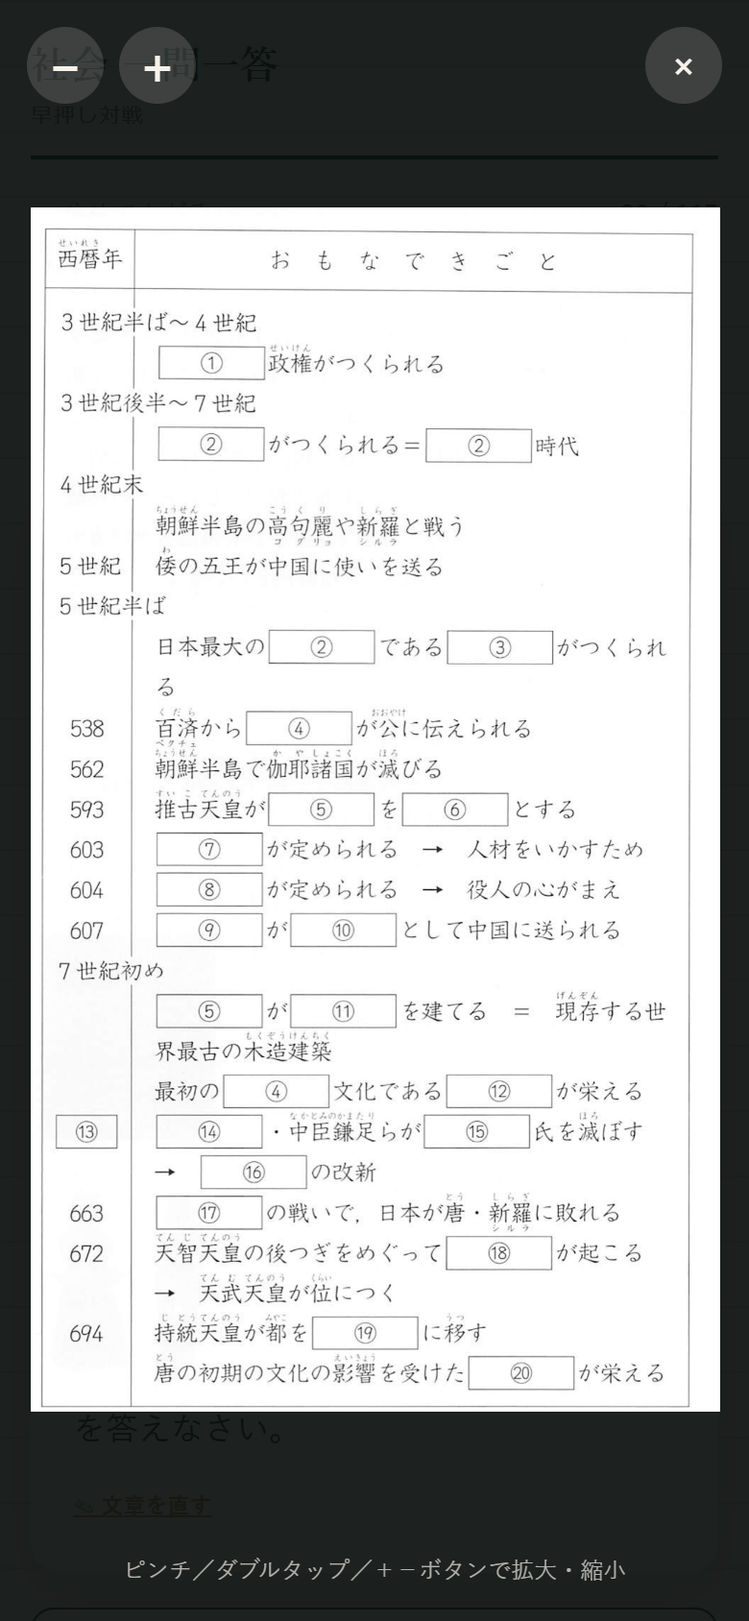
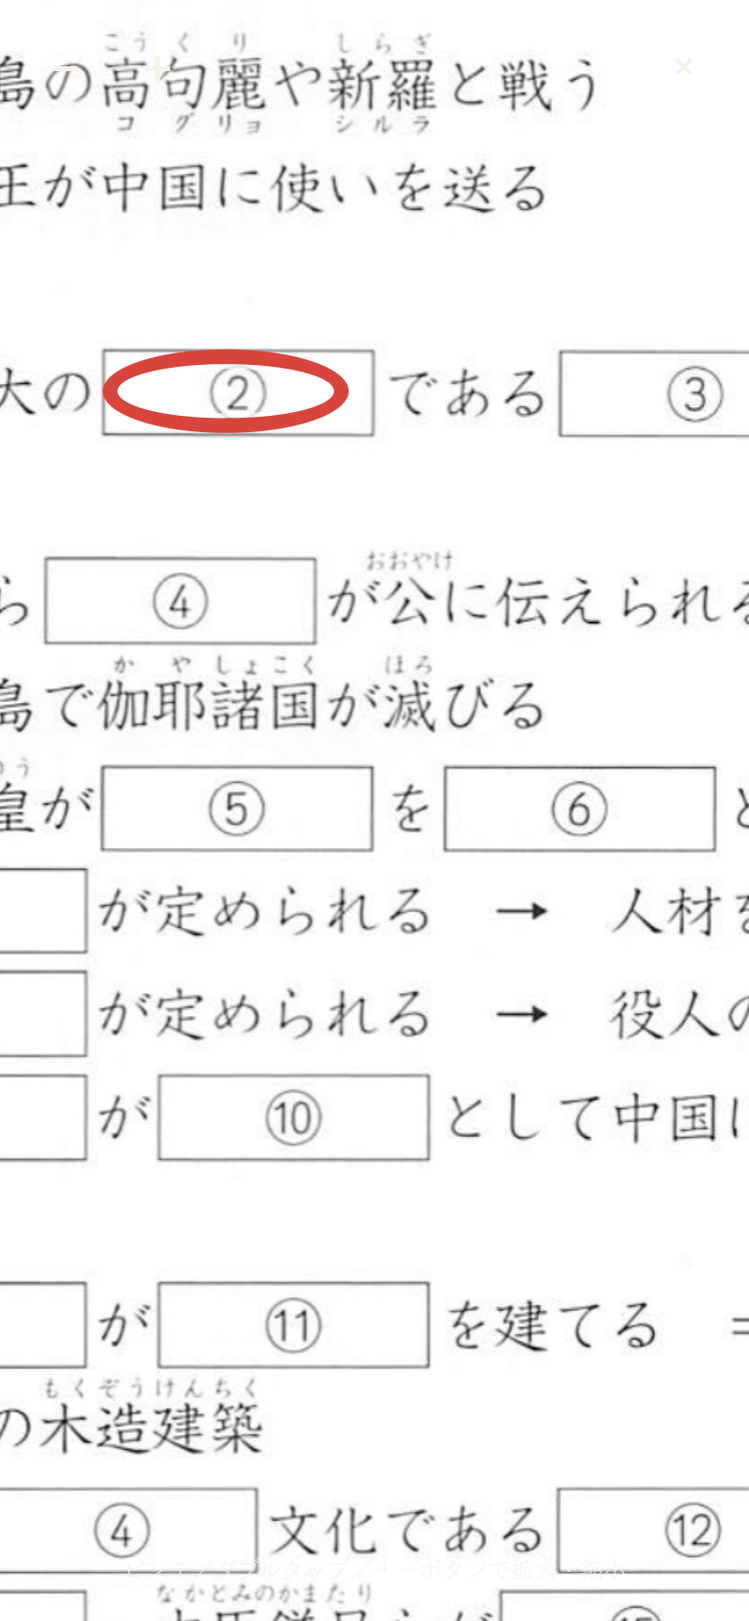
年表の空らんを赤丸で示す機能を入れた（画像1枚＋座標で、画像は増やさない）
ユーザーの「年表を出して、地図みたいに赤丸で囲んで『これなんだ？』みたいに
できませんか」への対応。第2回の年表20問（g2r66〜g2r85）に赤丸が出る。

■ 作り
画像は1ピクセルも変えず、上に層（.mark-layer）を重ねて丸を描く。
★**赤丸入りの画像を20枚作る方式は採らない。**1枚＋座標で足りるうえ、
画像を切り直したときに20枚すべてを作り直すことになるため。

座標は claude-34 が配信用画像（1216×2126）の px で測り、24個すべてを
赤枠で描いた画像を目視確認したもの。★**割合（0〜1）に直して持つ。**
px のままだと、端末で枠の大きさが変わったときに合わなくなる。
同じ番号が複数ある問（②が3か所・④と⑤が2か所）は全部囲む。
1つだけ囲むと「ほかの②は関係ない」と読めてしまう。

■ ★つまずいた1つめ: object-fit:contain で枠と絵の範囲がずれる
縦長の画像は枠（312×398）の中で左右に余白ができる。枠を基準に丸を置くと
ずれるので、**絵が実際に出ている範囲を計算してから**置いている。

■ ★つまずいた2つめ: 拡大すると丸だけがずれた（実機で見つけた）
拡大側は画像そのものに transform をかけているので、層にも同じ変形をかけた。
**変形の文字列は完全に一致していたのに、丸の位置だけが合わなかった。**
原因は**変形の基準点（transform-origin）**だった。層を stage の左上に置いた
まま同じ transform をかけると、img は自分の左上を中心に、層は stage の左上を
中心に拡大するので、`scale(2.56)` の結果が食いちがう。
→ **層を img にぴったり重ね、基準点を CSS で `0 0` にそろえた。**

★これは「拡大していないときは transform が無いので、ずれが出ず気づけない」型。
通常表示だけ見て終われば、そのまま配信していた。**実機で拡大して目で見たから
見つかった**（B-12）。変形の文字列が一致していることは、位置が合っている
証拠にならなかった（E-2 と同じ構図）。

■ 確認（実機・スマホ幅390px）
- g2r67（②が3か所）を出題し、**3つの丸が3つの②の箱すべてに乗る**ことを目で見た。
  ①③④⑤…には丸が付いていない
- 押して拡大し、**2.56倍にしても丸が箱に乗ったまま**であることを目で見た
- 画像の読み込み前は naturalWidth が 0 で描けないので、decode() 後に描き直す
- 画面幅が変わったら描き直す（resize）
- JSエラー0件。smoke-test 12件・node だけの6件・verify_data、すべて成功

■ まだやっていないこと
- 問題文を「赤丸の空らんをふくむ語を答えなさい」に変えるのは次（赤丸が出た今なら書ける）
- 第1回・第3回の画像と問題文。claude-34 から画像・座標・露出チェックは届いている

diff --git a/index.html b/index.html
@@ -444,6 +444,7 @@
     margin-bottom:16px;
     text-align:center;
   }
+  .img-wrap{ position:relative; }   /* 赤丸の層を重ねる基準 */
   .img-wrap img{
     max-width:100%;
     max-height:220px;
@@ -459,6 +460,23 @@
     border-radius:8px;
     border:1px solid var(--paper-line);
     background:#fff;
+  }
+  /* ★年表などで「ここが空らん」と示す赤丸。
+     画像は1ピクセルも変えず、上に層を重ねて描く（画像を20枚作らない）。
+     座標は画像の幅・高さに対する割合で持つ。端末で枠の大きさが変わるため、
+     px で持つと合わなくなる。 */
+  .mark-layer{
+    position:absolute;
+    pointer-events:none;   /* 押したときは下の画像に通す（拡大が開くように） */
+    left:0; top:0;
+    transform-origin:0 0;  /* ★拡大画像と同じ基準点。ここがずれると丸がずれる */
+  }
+  .mark-layer .mark{
+    position:absolute;
+    box-sizing:border-box;
+    border:3px solid #d8453c;
+    border-radius:50%;
+    box-shadow:0 0 0 1px rgba(255,255,255,.7) inset;
   }
   /* ★縦長の画像だけ、枠を高くする（setImgWithSize が .tall を付ける）。
      220pxのままだと年表（1216×2126）が幅126pxにしかならず、
@@ -1664,6 +1682,7 @@
     <div class="card">
       <div class="img-wrap" id="solo-img-wrap" style="display:none;">
         <img id="solo-img" src="" alt="資料" />
+        <div class="mark-layer" id="solo-marks"></div>
       </div>
       <div id="solo-view">
         <div class="q-text" id="solo-q"></div>
@@ -1768,6 +1787,7 @@
     <div class="card">
       <div class="img-wrap" id="battle-img-wrap" style="display:none;">
         <img id="battle-img" src="" alt="資料" />
+        <div class="mark-layer" id="battle-marks"></div>
       </div>
       <div id="battle-view">
         <div class="q-text" id="battle-q"></div>
@@ -1838,6 +1858,7 @@
   </div>
   <div class="lightbox-stage" id="lightbox-stage">
     <img id="lightbox-img" src="" alt="資料（拡大）" />
+    <div class="mark-layer" id="lightbox-marks"></div>
   </div>
   <div class="lightbox-hint">ピンチ／ダブルタップ／＋－ボタンで拡大・縮小</div>
 </div>
@@ -1904,6 +1925,72 @@ const APP_ID = 'kosukequiz-battle-hayaoshi-8f3d2a';
 const IMG_SIZES = {"img_01.jpg":[581,620],"img_02.jpg":[627,579],"img_03.jpg":[714,417],"img_04.jpg":[514,483],"img_05.jpg":[644,532],"img_06.jpg":[463,429],"img_07.jpg":[1156,446],"img_08.jpg":[573,586],"img_09.jpg":[506,198],"img_10.jpg":[497,146],"img_11.jpg":[503,499],"img_12.jpg":[518,578],"img_13.jpg":[746,621],"img_14.jpg":[713,567],"img_15.jpg":[658,628],"img_16.png":[642,589],"img_17.png":[535,597],"img_18.png":[510,295],"img_19.png":[1399,307],"img_20.png":[448,714],"img_21.png":[648,595],"img_22.png":[244,234],"img_23.jpg":[346,355],"img_24.jpg":[209,263],"img_25.jpg":[228,244],"kai1_01.jpg":[374,356],"kai1_02.jpg":[348,339],"kai1_03.jpg":[492,339],"kai1_04.jpg":[352,340],"kai1_05.jpg":[357,340],"kai1_06.jpg":[261,340],"kai1_07.jpg":[461,340],"kai1_08.jpg":[444,340],"kai1_09.jpg":[357,340],"kai1_10.jpg":[601,340],"kai1_11.jpg":[635,340],"kai1_12.jpg":[2019,1084],"kai1_13.jpg":[516,490],"kai1_14.jpg":[560,254],"kai1_15.jpg":[595,324],"kai1_17.jpg":[2028,783],"kai1_18.jpg":[2019,1084],"kai1_20.jpg":[2019,1084],"kai1_21.jpg":[2019,1084],"kai1_22.jpg":[595,569],"kai1_23.jpg":[595,569],"kai1_24.jpg":[2019,1084],"kai1_25.jpg":[595,569],"kai1_26.jpg":[595,569],"kai1_27.jpg":[700,508],"kai1_28.jpg":[951,720],"kai1_29.jpg":[2240,1180],"kai2_01.jpg":[697,350],"kai2_02.jpg":[769,524],"kai2_03.jpg":[529,297],"kai2_04.jpg":[529,313],"kai2_05.jpg":[1216,2126],"kai3_01.jpg":[530,460],"kai3_02.jpg":[680,460],"kai3_03.jpg":[700,460],"kai3_04.jpg":[675,330],"kai3_05.jpg":[2408,1775],"kai3_06.jpg":[1988,1222],"kaki_r1_01.jpg":[761,180],"kaki_r1_02.jpg":[761,206],"kaki_r1_03.jpg":[796,180],"kaki_r1_04.jpg":[761,179],"kaki_r1_05.jpg":[796,206],"kaki_r1_06.jpg":[830,214],"kaki_r1_07.jpg":[890,624],"kaki_r1_08.jpg":[430,380],"kaki_r1_map01.jpg":[1170,1210],"kaki_r1_map02.jpg":[1170,1210],"kaki_r1_map03.jpg":[1170,1210],"kaki_r1_map04.jpg":[1170,1210],"kaki_r1_map05.jpg":[1170,1210],"kaki_r1_map06.jpg":[1170,1210],"kaki_r1_map07.jpg":[1170,1210],"kaki_r1_map08.jpg":[1170,1210],"kaki_r1_map09.jpg":[1170,1210],"kaki_r1_map10.jpg":[1170,1210],"kaki_r1_map11.jpg":[1170,1210],"kaki_r1_map12.jpg":[1170,1210],"kaki_r1_map13.jpg":[1170,1210],"kaki_r1_map14.jpg":[1170,1210],"kaki_r1_map15.jpg":[1170,1210],"kaki_r2_graph01.jpg":[1215,1340],"kaki_r2_graph02.jpg":[1295,850],"kaki_r2_graph03.jpg":[1265,680],"kaki_r2_graph04.jpg":[1225,320],"kaki_r2_graph06.jpg":[1045,560],"kaki_r2_graph07.jpg":[700,870],"kaki_r2_map01.jpg":[1140,1090],"kaki_r2_map05.jpg":[1035,900],"kaki_r2_map07.jpg":[2315,1650],"kaki_r2_map08.jpg":[2315,1650],"kaki_r2_map09.jpg":[2315,1650],"kaki_r2_map10.jpg":[2315,1650],"kaki_r2_map11.jpg":[2315,1650],"kaki_r2_map12.jpg":[2315,1650],"kaki_r2_map13.jpg":[2315,1650],"kaki_r2_map14.jpg":[2315,1650],"kaki_r2_map15.jpg":[2315,1650],"kaki_r2_map16.jpg":[2315,1650],"kaki_r2_map17.jpg":[2315,1650],"kaki_r2_map18.jpg":[2315,1650],"kaki_r2_map19.jpg":[2315,1650],"kaki_r3_graph01.jpg":[1015,580],"kaki_r3_house01.jpg":[505,355],"kaki_r3_map01.jpg":[2415,3414],"kaki_r3_map02.jpg":[2415,3414],"kaki_r3_map03.jpg":[2415,3414],"kaki_r3_map04.jpg":[2415,3414],"kaki_r3_map05.jpg":[2415,3414],"kaki_r3_map06.jpg":[2415,3414],"kaki_r3_map07.jpg":[2415,3414],"kaki_r3_map08.jpg":[2415,3414],"kaki_r3_map09.jpg":[2415,3414],"kaki_r3_map10.jpg":[2415,3414],"kaki_r3_map11.jpg":[2415,3414],"kaki_r3_map12.jpg":[2415,3414],"kaki_r3_map13.jpg":[2415,3414],"kaki_r3_map14.jpg":[2415,3414],"kaki_r3_map15.jpg":[2415,3414],"kaki_r3_map16.jpg":[2415,3414],"kaki_r3_map17.jpg":[2415,3414],"kaki_r3_map18.jpg":[2415,3414],"kaki_r3_map19.jpg":[2415,3414],"kaki_r3_map20.jpg":[2415,3414],"kaki_r3_map21.jpg":[2415,3414],"kaki_r3_map22.jpg":[2415,3414],"kaki_r3_map23.jpg":[2415,3417],"kaki_r3_map24.jpg":[2415,3417],"kaki_r3_map25.jpg":[2415,3417],"kaki_r3_map26.jpg":[2415,3417],"kaki_r3_map27.jpg":[2415,3417],"kaki_r3_map28.jpg":[2415,3417],"kaki_r3_map29.jpg":[2415,3417],"kaki_r3_map30.jpg":[2415,3417],"kaki_r3_map31.jpg":[2415,3417],"kaki_r3_map32.jpg":[2415,3417],"kaki_r3_map33.jpg":[2415,3417],"kaki_r3_map34.jpg":[2415,3417],"kaki_r3_map35.jpg":[2415,3417],"kaki_r3_map36.jpg":[2415,3417],"kaki_r3_map37.jpg":[1265,910],"kaki_r3_shapes.jpg":[2315,480],"kaki_r4_graph01.jpg":[910,300],"kaki_r4_graph02.jpg":[760,200],"kaki_r4_map01.jpg":[1610,980],"kaki_r4_map02.jpg":[1610,1380],"kaki_r4_map03.jpg":[540,570],"kaki_r4_map04.jpg":[1480,1310],"kaki_r4_map05.jpg":[1480,1310],"kaki_r4_map06.jpg":[1480,1310],"kaki_r4_map07.jpg":[1480,1310],"kaki_r4_map08.jpg":[1480,1310],"kaki_r4_map09.jpg":[1480,1310],"kaki_r4_map10.jpg":[1480,1310],"kaki_r4_map11.jpg":[1480,1310],"kaki_r4_map12.jpg":[1480,1310],"kaki_r4_map13.jpg":[1480,1310],"kaki_r4_map14.jpg":[1480,1310],"kaki_r4_map15.jpg":[1480,1310],"kaki_r4_map16.jpg":[1480,1310],"kaki_r4_map17.jpg":[1480,1310],"kaki_r4_map18.jpg":[1480,1310],"kaki_r4_map19.jpg":[1480,1310],"kaki_r4_map20.jpg":[1480,1310],"kaki_r4_map21.jpg":[1480,1310],"kaki_r4_map22.jpg":[1480,1310],"kaki_r4_map23.jpg":[1480,1310],"kaki_r4_map24.jpg":[1480,1310],"kaki_r4_map25.jpg":[1630,1440],"kaki_r4_map26.jpg":[1630,1440],"kaki_r4_map27.jpg":[1630,1440],"kaki_r4_map28.jpg":[1630,1440],"kaki_r4_map29.jpg":[1630,1440],"kaki_r4_map30.jpg":[1630,1440],"kaki_r4_map31.jpg":[1630,1440],"kaki_r4_map32.jpg":[1630,1440],"kaki_r4_map33.jpg":[1630,1440],"kaki_r4_map34.jpg":[1630,1440],"kaki_r4_map35.jpg":[1630,1440],"kaki_r4_map36.jpg":[1630,1440],"kaki_r4_map37.jpg":[1630,1440],"kaki_r4_map38.jpg":[1630,1440],"kaki_r4_map39.jpg":[1630,1440],"kaki_r4_map40.jpg":[1630,1440],"kaki_r4_map41.jpg":[1630,1440],"kaki_r4_shapes01.jpg":[1470,520],"kaki_r4_shapes02.jpg":[1970,870],"kaki_r5_graph02.jpg":[610,665],"kaki_r5_graph05.jpg":[2105,343],"kaki_r5_map01.jpg":[1540,1550],"kaki_r5_map02.jpg":[1540,1550],"kaki_r5_map03.jpg":[1540,1550],"kaki_r5_map04.jpg":[1540,1550],"kaki_r5_map05.jpg":[1540,1550],"kaki_r5_map06.jpg":[1540,1550],"kaki_r5_map07.jpg":[1540,1550],"kaki_r5_map08.jpg":[1540,1550],"kaki_r5_map09.jpg":[1540,1550],"kaki_r5_map10.jpg":[1540,1550],"kaki_r5_map11.jpg":[1540,1550],"kaki_r5_map12.jpg":[1540,1550],"kaki_r5_map13.jpg":[1540,1550],"kaki_r5_map14.jpg":[1540,1550],"kaki_r5_map15.jpg":[1540,1550],"kaki_r5_map16.jpg":[1540,1550],"kaki_r5_map17.jpg":[1540,1550],"kaki_r5_map18.jpg":[1540,1550],"kaki_r5_map19.jpg":[1700,1740],"kaki_r5_map20.jpg":[1700,1740],"kaki_r5_map21.jpg":[1700,1740],"kaki_r5_map22.jpg":[1700,1740],"kaki_r5_map23.jpg":[1700,1740],"kaki_r5_map24.jpg":[1700,1740],"kaki_r5_map25.jpg":[1700,1740],"kaki_r5_map26.jpg":[1700,1740],"kaki_r5_map27.jpg":[1700,1740],"kaki_r5_map28.jpg":[1700,1740],"kaki_r5_map29.jpg":[1700,1740],"kaki_r5_map30.jpg":[1700,1740],"kaki_r5_map31.jpg":[1700,1740],"kaki_r5_map32.jpg":[540,600],"kaki_r5_shapes02.jpg":[800,635],"kaki_r5_shapes03.jpg":[460,480],"kaki_r5_table01.jpg":[1370,390],"kaki_r5_table02.jpg":[1170,580],"kaki_r6_graph01.jpg":[850,1005],"kaki_r6_map01.jpg":[1500,1320],"kaki_r6_map02.jpg":[1500,1320],"kaki_r6_map03.jpg":[1500,1320],"kaki_r6_map04.jpg":[1500,1320],"kaki_r6_map05.jpg":[1500,1320],"kaki_r6_map06.jpg":[1500,1320],"kaki_r6_map07.jpg":[1500,1320],"kaki_r6_map08.jpg":[1500,1320],"kaki_r6_map09.jpg":[1500,1320],"kaki_r6_map10.jpg":[1500,1320],"kaki_r6_map11.jpg":[1500,1320],"kaki_r6_map12.jpg":[1500,1320],"kaki_r6_map13.jpg":[1500,1320],"kaki_r6_map14.jpg":[1500,1320],"kaki_r6_map15.jpg":[1500,1320],"kaki_r6_map16.jpg":[1500,1320],"kaki_r6_map17.jpg":[1500,1320],"kaki_r6_map18.jpg":[1500,1320],"kaki_r6_map19.jpg":[1500,1320],"kaki_r6_map20.jpg":[1500,1320],"kaki_r6_map21.jpg":[1500,1320],"kaki_r6_map22.jpg":[1500,1320],"kaki_r6_map23.jpg":[1500,1320],"kaki_r6_map24.jpg":[1500,1320],"kaki_r6_map25.jpg":[1500,1320],"kaki_r6_map26.jpg":[1500,1320],"kaki_r6_map27.jpg":[1500,1320],"kaki_r6_map28.jpg":[1420,1480],"kaki_r6_map29.jpg":[1420,1480],"kaki_r6_map30.jpg":[1420,1480],"kaki_r6_map31.jpg":[1420,1480],"kaki_r6_map32.jpg":[1420,1480],"kaki_r6_map33.jpg":[1420,1480],"kaki_r6_map34.jpg":[1420,1480],"kaki_r6_map35.jpg":[1420,1480],"kaki_r6_map36.jpg":[1420,1480],"kaki_r6_map37.jpg":[1420,1480],"kaki_r6_map38.jpg":[1420,1480],"kaki_r6_map39.jpg":[1420,1480],"kaki_r6_map40.jpg":[1420,1480],"kaki_r6_map41.jpg":[1420,1480],"kaki_r6_map42.jpg":[1420,1480],"kaki_r6_map43.jpg":[1420,1480],"kaki_r6_map44.jpg":[1420,1480],"kaki_r6_map45.jpg":[1420,1480],"kaki_r6_map46.jpg":[1420,1480],"kaki_r6_map47.jpg":[1420,1480],"kaki_r6_map48.jpg":[750,845],"kaki_r6_map49.jpg":[600,700],"kaki_r6_table01.jpg":[2010,445],"kaki_r7_graph02.jpg":[720,340],"kaki_r7_map01.jpg":[1840,1620],"kaki_r7_map02.jpg":[1840,1620],"kaki_r7_map03.jpg":[1840,1620],"kaki_r7_map04.jpg":[1840,1620],"kaki_r7_map05.jpg":[1840,1620],"kaki_r7_map06.jpg":[1840,1620],"kaki_r7_map07.jpg":[1840,1620],"kaki_r7_map08.jpg":[1840,1620],"kaki_r7_map09.jpg":[1840,1620],"kaki_r7_map10.jpg":[1840,1620],"kaki_r7_map11.jpg":[1840,1620],"kaki_r7_map12.jpg":[1840,1620],"kaki_r7_map13.jpg":[1840,1620],"kaki_r7_map14.jpg":[1840,1620],"kaki_r7_map15.jpg":[1840,1620],"kaki_r7_map16.jpg":[1840,1620],"kaki_r7_map17.jpg":[1840,1620],"kaki_r7_map18.jpg":[1500,1620],"kaki_r7_map19.jpg":[1500,1620],"kaki_r7_map20.jpg":[1500,1620],"kaki_r7_map21.jpg":[1500,1620],"kaki_r7_map22.jpg":[1500,1620],"kaki_r7_map23.jpg":[1500,1620],"kaki_r7_map24.jpg":[1500,1620],"kaki_r7_map25.jpg":[1500,1620],"kaki_r7_map26.jpg":[1500,1620],"kaki_r7_map27.jpg":[1500,1620],"kaki_r7_map28.jpg":[1500,1620],"kaki_r7_map29.jpg":[1500,1620],"kaki_r7_map30.jpg":[1500,1620],"kaki_r7_map31.jpg":[1500,1620],"kaki_r7_map32.jpg":[1500,1620],"kaki_r7_map33.jpg":[1500,1620],"kaki_r7_map34.jpg":[1500,1620],"kaki_r7_map35.jpg":[1500,1620],"kaki_r7_map36.jpg":[680,550],"kaki_r7_table01.jpg":[1100,420],"kaki_r7_table02.jpg":[1730,890],"kaki_r8_map01.jpg":[1220,1720],"kaki_r8_map02.jpg":[1220,1720],"kaki_r8_map03.jpg":[1220,1720],"kaki_r8_map04.jpg":[1220,1720],"kaki_r8_map05.jpg":[1220,1720],"kaki_r8_map06.jpg":[1220,1720],"kaki_r8_map07.jpg":[1220,1720],"kaki_r8_map08.jpg":[1220,1720],"kaki_r8_map09.jpg":[1220,1720],"kaki_r8_map10.jpg":[1220,1720],"kaki_r8_map11.jpg":[1220,1720],"kaki_r8_map12.jpg":[1220,1720],"kaki_r8_map13.jpg":[1220,1720],"kaki_r8_map14.jpg":[1220,1720],"kaki_r8_map15.jpg":[1220,1720],"kaki_r8_map16.jpg":[1220,1720],"kaki_r8_map17.jpg":[1220,1720],"kaki_r8_map18.jpg":[1220,1720],"kaki_r8_map19.jpg":[1220,1720],"kaki_r8_map20.jpg":[1220,1720],"kaki_r8_map21.jpg":[1220,1720],"kaki_r8_map22.jpg":[1220,1720],"kaki_r8_map23.jpg":[1220,1720],"kaki_r8_map24.jpg":[1220,1720],"kaki_r8_map25.jpg":[1220,1720],"kaki_r8_map26.jpg":[1220,1720],"kaki_r8_map27.jpg":[1220,1720],"kaki_r8_map28.jpg":[1220,1720],"kaki_r8_map29.jpg":[1220,1720],"kaki_r8_map30.jpg":[1220,1720],"kaki_r8_map31.jpg":[1220,1720],"kaki_r8_map32.jpg":[1220,1720],"kaki_r8_map33.jpg":[1220,1720],"kaki_r8_map34.jpg":[1220,1720],"kaki_r8_map35.jpg":[1870,1560],"kaki_r8_map36.jpg":[1870,1560],"kaki_r8_map37.jpg":[1870,1560],"kaki_r8_map38.jpg":[1870,1560],"kaki_r8_map39.jpg":[1870,1560],"kaki_r8_map40.jpg":[1870,1560],"kaki_r8_map41.jpg":[1870,1560],"kaki_r8_map42.jpg":[1870,1560],"kaki_r8_map43.jpg":[1870,1560],"kaki_r8_map44.jpg":[1870,1560],"kaki_r8_map45.jpg":[1870,1560],"kaki_r8_map46.jpg":[1870,1560],"kaki_r8_map47.jpg":[1870,1560],"kaki_r8_map48.jpg":[1870,1560],"kaki_r8_map49.jpg":[1870,1560],"kaki_r8_map50.jpg":[1870,1560],"kaki_r8_map51.jpg":[1870,1560],"kaki_r8_map52.jpg":[1870,1560],"kaki_r8_map53.jpg":[1870,1560],"kaki_r8_map54.jpg":[1870,1560],"kaki_r8_map55.jpg":[1870,1560],"kaki_r8_map56.jpg":[1870,1560],"kaki_r8_map57.jpg":[1870,1560],"kaki_r8_map58.jpg":[640,630],"r1_01.jpg":[2188,900],"r1_02.jpg":[1130,1070],"r1_03.jpg":[1660,400],"r1_04.jpg":[476,377],"r1_05.jpg":[1299,625],"r1_06.jpg":[950,360],"r2_01.jpg":[1400,673],"r2_02.jpg":[1400,365],"r2_03.jpg":[1400,346],"r2_04.jpg":[1400,997],"r2_05.jpg":[1400,692],"r2_06.jpg":[1392,600],"r2_07.jpg":[1392,623],"r2_08.jpg":[1392,701],"r2_09.jpg":[1419,823],"r2_10.jpg":[1419,823],"r2_11.jpg":[1419,823],"r2_12.jpg":[1419,956],"r2_13.jpg":[1419,956],"r2_14.jpg":[1419,956],"r2_15.jpg":[1400,946],"r2_16.jpg":[1400,946],"r2_17.jpg":[1400,946],"r2_18.jpg":[1400,883],"r2_19.jpg":[1400,883],"r2_20.jpg":[1427,1895],"r2_21.jpg":[1427,1895],"r2_22.jpg":[1427,1895],"r2_23.jpg":[1427,1895],"r2_24.jpg":[1427,1895],"r2_25.jpg":[1427,1895],"r2_26.jpg":[1410,1983],"r2_27.jpg":[1410,1983],"r2_28.jpg":[1410,1983],"r2_29.jpg":[1410,1983],"r2_30.jpg":[1419,946],"r2_31.jpg":[1419,946],"r2_32.jpg":[1419,946],"r2_33.jpg":[1419,946],"r2_34.jpg":[1419,538],"r2_35.jpg":[1419,538],"r2_36.jpg":[1419,538],"r2_37.jpg":[1419,538],"r2_38.jpg":[1419,546],"r2_39.jpg":[1401,913],"r2_40.jpg":[1401,1937]};
 
 // 画像を差し替える際、幅・高さの属性も一緒に設定する（IMG_SIZESに無い画像はそのまま）
+// ---- 年表の空らんを赤丸で示す位置（画像の幅・高さに対する割合）----
+// [x, y, 幅, 高さ] をすべて 0〜1 の割合で持つ。★px で持つと端末ごとに合わなくなる。
+// もとの座標は claude-34 が配信用画像（kai2_05.jpg・1216×2126）の px で測ったもので、
+// 24個すべてを赤枠で描いた画像を開いて目視確認ずみ。ここでは割合に直してある。
+// ★同じ番号が紙面に複数ある問（②が3か所・④と⑤が2か所）は、全部囲む。
+//   1つだけ囲むと「ほかの②は関係ない」と読めてしまうため。
+// ⚠ 画像を切り直したら、この座標は無効になる。作り直しが必要。
+const TIMELINE_MARKS = {
+  "g2r66": [[0.18586, 0.11524, 0.12336, 0.02681]],
+  "g2r67": [[0.18503, 0.1825, 0.15214, 0.02728], [0.57319, 0.18344, 0.15296, 0.02775], [0.34539, 0.35089, 0.14062, 0.02728]],
+  "g2r68": [[0.60362, 0.35183, 0.15296, 0.02681]],
+  "g2r69": [[0.3125, 0.41816, 0.15296, 0.02775], [0.27961, 0.72013, 0.15214, 0.02728]],
+  "g2r70": [[0.34457, 0.48589, 0.15296, 0.02728], [0.18257, 0.65334, 0.15296, 0.02728]],
+  "g2r71": [[0.53865, 0.48636, 0.15378, 0.02681]],
+  "g2r72": [[0.18257, 0.51929, 0.15296, 0.02681]],
+  "g2r73": [[0.18339, 0.55221, 0.15132, 0.02775]],
+  "g2r74": [[0.18257, 0.58608, 0.15296, 0.02728]],
+  "g2r75": [[0.37664, 0.58608, 0.15296, 0.02728]],
+  "g2r76": [[0.37747, 0.65334, 0.15214, 0.02728]],
+  "g2r77": [[0.6028, 0.72013, 0.15296, 0.02728]],
+  "g2r78": [[0.03701, 0.75353, 0.08799, 0.02728]],
+  "g2r79": [[0.18257, 0.75353, 0.15296, 0.02728]],
+  "g2r80": [[0.57072, 0.75353, 0.15214, 0.02728]],
+  "g2r81": [[0.24671, 0.78739, 0.15296, 0.02728]],
+  "g2r82": [[0.18257, 0.82079, 0.15296, 0.02728]],
+  "g2r83": [[0.6028, 0.85466, 0.15214, 0.02728]],
+  "g2r84": [[0.40789, 0.92145, 0.15296, 0.02634]],
+  "g2r85": [[0.63487, 0.9539, 0.15296, 0.02728]]
+};
+
+// 画像の上に赤丸を描く。
+// ★むずかしいのは object-fit:contain のせい。枠（img要素）と、実際に絵が出ている
+//   範囲がずれる（縦長の画像なら左右に余白ができる）。枠を基準に置くと丸がずれるので、
+//   実際に絵が出ている範囲を計算してから置く。
+function drawMarks(imgEl, layerEl, qid){
+  if(!layerEl) return;
+  layerEl.innerHTML = "";
+  const marks = TIMELINE_MARKS[qid];
+  if(!marks || !imgEl.naturalWidth || !imgEl.clientWidth) return;
+  const bw = imgEl.clientWidth, bh = imgEl.clientHeight;
+  const nr = imgEl.naturalWidth / imgEl.naturalHeight;
+  // 枠の中で、縦横比を保ったまま収まる大きさ（contain と同じ計算）
+  let cw, ch;
+  if(bw / bh > nr){ ch = bh; cw = bh * nr; }else{ cw = bw; ch = bw / nr; }
+  // ★層は img にぴったり重ねる。層を別の場所に置いたまま同じ transform を
+  //   かけると、拡大の基準点（transform-origin）が img と層で食いちがい、
+  //   拡大したときだけ丸がずれる。実際にそうなって、実機で見つけた。
+  //   （拡大していないときは transform が無いので、ずれは出ず気づけない）
+  layerEl.style.left   = imgEl.offsetLeft + "px";
+  layerEl.style.top    = imgEl.offsetTop + "px";
+  layerEl.style.width  = bw + "px";
+  layerEl.style.height = bh + "px";
+  // 絵が出ている範囲は、枠の中央に寄る（contain のため）
+  const ox = (bw - cw) / 2;
+  const oy = (bh - ch) / 2;
+  for(const m of marks){
+    const d = document.createElement("div");
+    d.className = "mark";
+    d.style.left   = (ox + m[0] * cw) + "px";
+    d.style.top    = (oy + m[1] * ch) + "px";
+    d.style.width  = (m[2] * cw) + "px";
+    d.style.height = (m[3] * ch) + "px";
+    layerEl.appendChild(d);
+  }
+}
+
 // 縦長の画像は、横長と同じ高さの枠に入れると極端に細くなる。
 // 例: 年表 kai2_05.jpg は 1216×2126 なので、高さ220pxの枠では幅126pxしかない。
 // 「最初の一目で年表に見える」必要があるので、★縦長のときだけ枠を高くする。
@@ -1912,19 +1999,36 @@ function isTallImg(filename){
   const sz = IMG_SIZES[filename];
   return !!sz && sz[0] / sz[1] < 1;
 }
-function setImgWithSize(imgEl, filename){
+function setImgWithSize(imgEl, filename, qid, layerEl){
   const sz = IMG_SIZES[filename];
   if(sz){ imgEl.width = sz[0]; imgEl.height = sz[1]; }
   else { imgEl.removeAttribute("width"); imgEl.removeAttribute("height"); }
   imgEl.classList.toggle("tall", isTallImg(filename));
   imgEl.src = "images/"+filename;
+  if(layerEl){
+    // ★読み込みが終わる前だと naturalWidth が 0 で、丸が描けない。
+    //   読み込み後にもう一度描く。すでにキャッシュにあるときは decode() が即返る。
+    imgEl.__markQid = qid;
+    const draw = () => drawMarks(imgEl, layerEl, qid);
+    draw();
+    if(imgEl.decode) imgEl.decode().then(draw).catch(draw);
+    else imgEl.addEventListener("load", draw, { once: true });
+  }
 }
+// 画面の幅が変わると枠の大きさも変わるので、描き直す
+window.addEventListener("resize", () => {
+  for(const [i, l] of [["solo-img","solo-marks"], ["battle-img","battle-marks"]]){
+    const img = els[i];
+    if(img && img.__markQid && img.offsetParent) drawMarks(img, els[l], img.__markQid);
+  }
+});
 
 const els = {};
 ["screen-home","screen-join","screen-list","screen-solo","screen-solo-result","screen-battle","screen-result",
  "subject-social","subject-science",
  "stat-total","stat-mastered","stat-weak","stat-clear-link","list-btn","calc-setup-btn","kanji-setup-btn","retry-last-miss-btn","resume-solo-btn","resume-battle-btn","export-link","import-link","import-file","export-edits-link",
  "unit-choices","mode-unmastered","mode-weak",
+ "solo-marks","battle-marks","lightbox-marks",
  "type-all","type-image","type-text",
  "priority-all","priority-high","priority-mid","priority-low",
  "level-all","level-basic","level-standard","level-advanced",
@@ -4507,7 +4611,7 @@ function startSoloCard(){
   els["solo-view"].style.display = "block";
   els["solo-edit-form"].style.display = "none";
   if(d.img){
-    setImgWithSize(els["solo-img"], d.img);
+    setImgWithSize(els["solo-img"], d.img, d.id, els["solo-marks"]);
     els["solo-img-wrap"].style.display = "block";
   }else{
     els["solo-img-wrap"].style.display = "none";
@@ -5339,7 +5443,7 @@ function showQuestion(idx, hostPrivate){
   els["battle-edit-form"].style.display = "none";
   els["battle-a-block"].classList.remove("show");
   if(d.img){
-    setImgWithSize(els["battle-img"], d.img);
+    setImgWithSize(els["battle-img"], d.img, d.id, els["battle-marks"]);
     els["battle-img-wrap"].style.display = "block";
   }else{
     els["battle-img-wrap"].style.display = "none";
@@ -5712,8 +5816,19 @@ let openLightbox = function(){};
   let startX = 0, startY = 0, startOriginX = 0, startOriginY = 0;
   let pointers = {};
 
+  let currentQid = null;
   function apply(){
     img.style.transform = "translate("+originX+"px,"+originY+"px) scale("+scale+")";
+    layoutMarks();
+  }
+  // ★拡大側にも赤丸の層が要る。作らないと、拡大したとたんに丸が消える。
+  //   画像そのものに transform をかけているので、層にも同じ変形をかけて追従させる。
+  //   拡大画像は width/height 属性を持たないため、枠＝絵の範囲（ずれは出ない）。
+  function layoutMarks(){
+    const layer = els["lightbox-marks"];
+    if(!layer) return;
+    layer.style.transform = img.style.transform;
+    drawMarks(img, layer, currentQid);   // 基準点は CSS で 0 0 にそろえてある
   }
   function reset(){
     scale = 1; originX = 0; originY = 0;
@@ -5748,16 +5863,22 @@ let openLightbox = function(){};
     const dy = a.clientY - b.clientY;
     return Math.sqrt(dx*dx + dy*dy);
   }
-  function open(src){
+  function open(src, qid){
+    currentQid = qid || null;
     img.src = src;
     reset();
     overlay.classList.add("show");
     document.body.style.overflow = "hidden";
+    // 読み込みが終わる前は naturalWidth が 0 で描けないので、終わってから描き直す
+    if(img.decode) img.decode().then(layoutMarks).catch(layoutMarks);
+    else img.addEventListener("load", layoutMarks, { once: true });
   }
   function close(){
     overlay.classList.remove("show");
     document.body.style.overflow = "";
     img.src = "";
+    currentQid = null;
+    if(els["lightbox-marks"]) els["lightbox-marks"].innerHTML = "";
     pointers = {};
   }
   openLightbox = open;
@@ -5816,10 +5937,10 @@ let openLightbox = function(){};
 })();
 
 els["solo-img"].addEventListener("click", ()=>{
-  if(els["solo-img"].src) openLightbox(els["solo-img"].src);
+  if(els["solo-img"].src) openLightbox(els["solo-img"].src, els["solo-img"].__markQid);
 });
 els["battle-img"].addEventListener("click", ()=>{
-  if(els["battle-img"].src) openLightbox(els["battle-img"].src);
+  if(els["battle-img"].src) openLightbox(els["battle-img"].src, els["battle-img"].__markQid);
 });
 
 setupInlineEdit("solo", ()=> quizQueue[quizPos] !== undefined ? QA_DATA[quizQueue[quizPos]].id : null);

diff --git a/作業メモ.md b/作業メモ.md
@@ -4,7 +4,7 @@
 （作業を始めるときに「セッション名 / 触るファイル / 内容」を1行書いてpush、終わったら消す。
 　作業前に必ずここを読み、他のセッションが同じファイルを触っていたら手を出さないこと）
 
-- claude-03 [e15b1d] / data.js・index.html / ★配信ずみ（公開反映を目視確認）。次はグラフ11問の案
+- （いまは誰も作業していません）
 
 ### ★★2026-09-12 配信完了（公開URLで反映を目視した）
 
